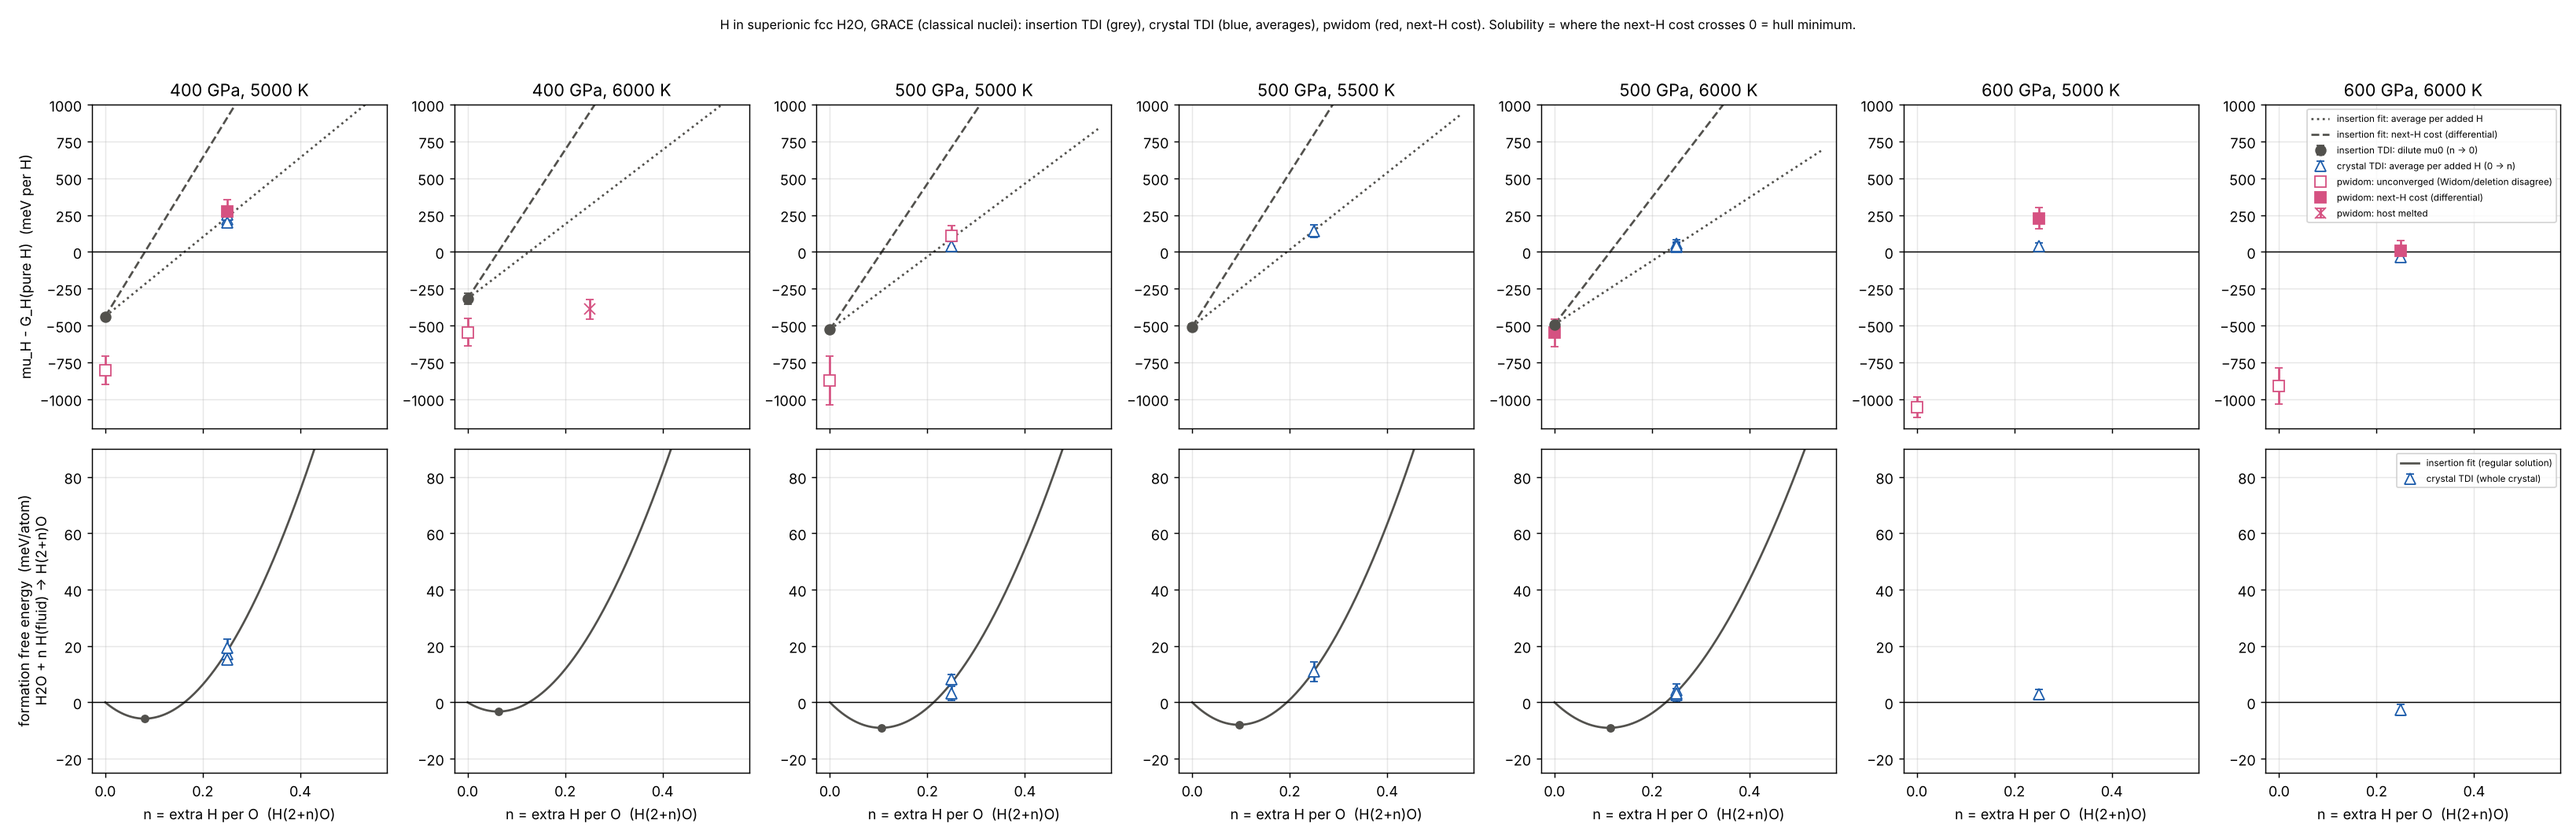
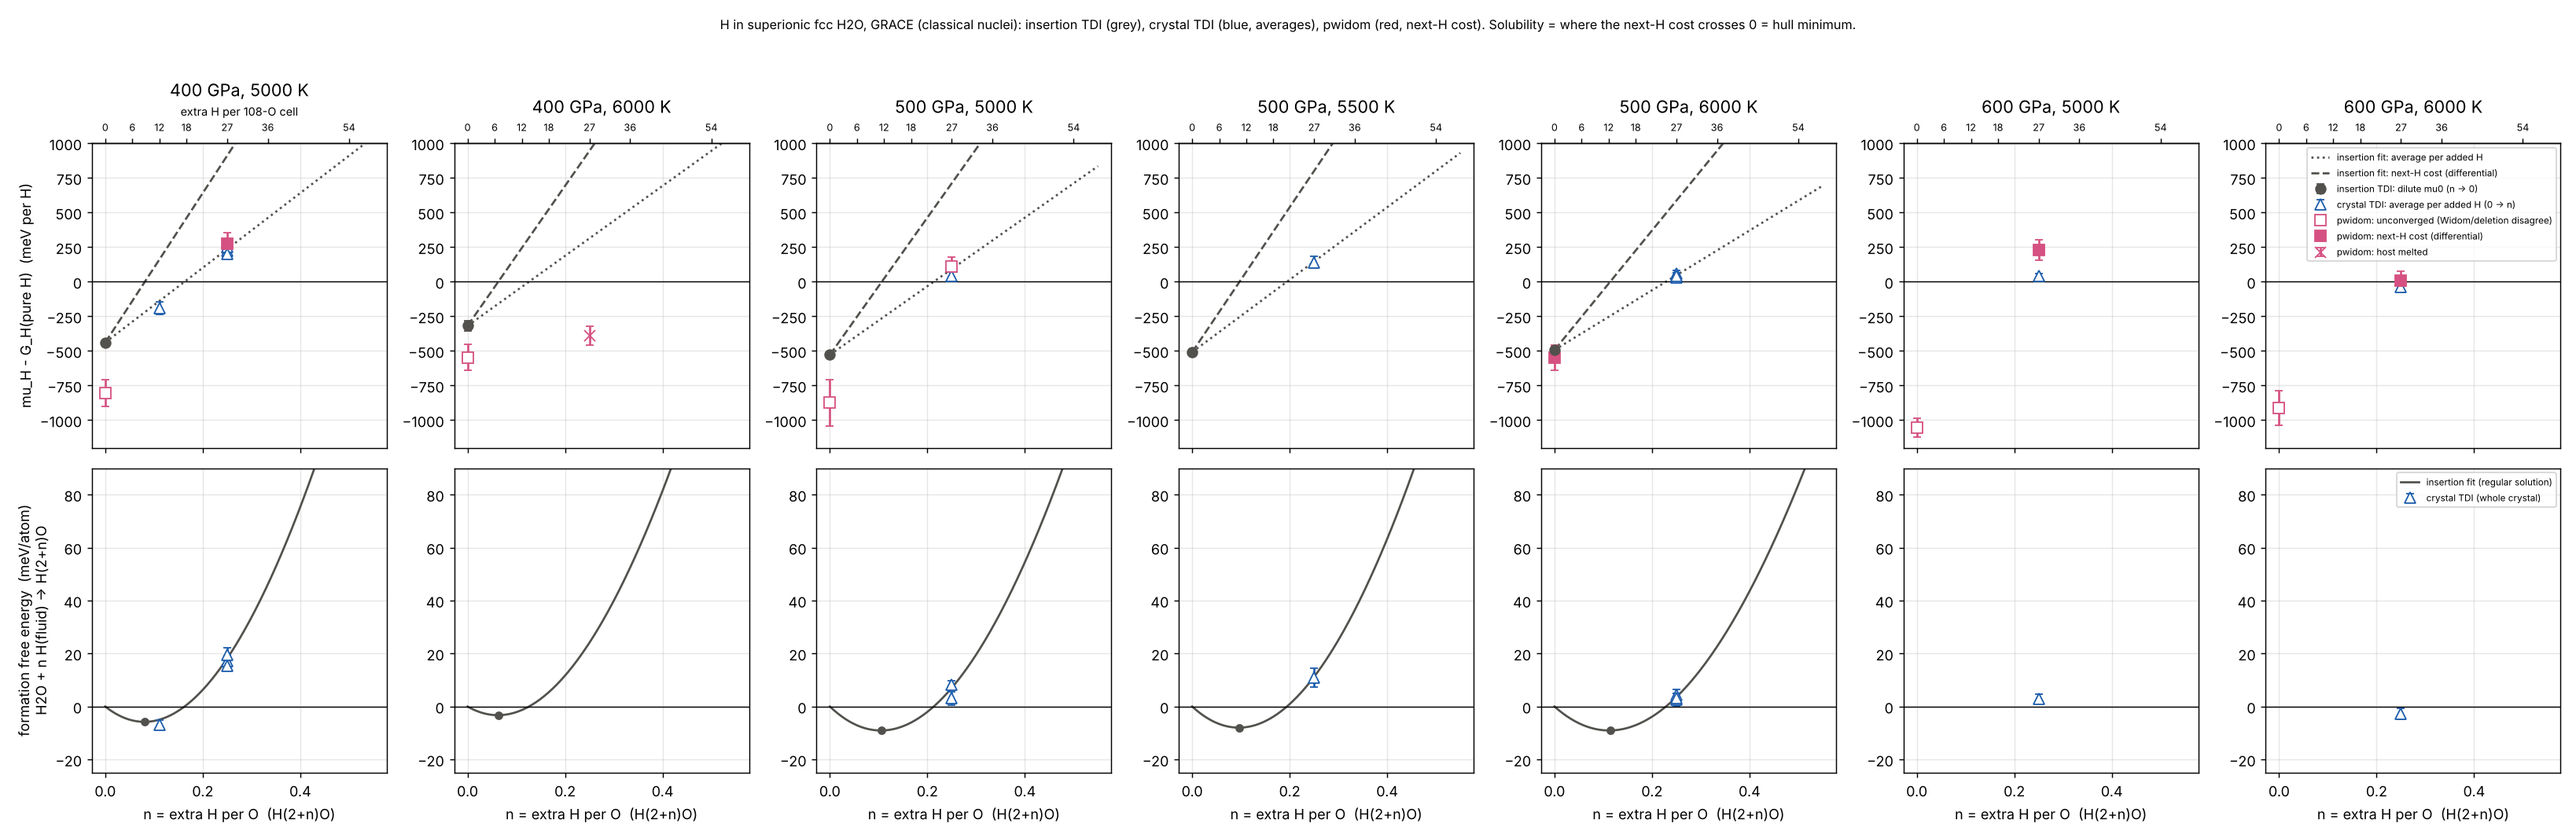
H2.111O crystal TDI at 400 GPa 5000 K (average -191 +- 46 meV per added H = -6.8 +- 1.7 meV/atom) added to the crystal points; mu / hull figure updated
Claude-Session: https://claude.ai/code/session_01RSfmJNpmRzcKj5F71AN4DM

diff --git a/mlp_pipeline/tdi/huang_hull.py b/mlp_pipeline/tdi/huang_hull.py
@@ -17,7 +17,8 @@ import matplotlib.pyplot as plt
 CRYSTAL = [(400, 4000, 0.25, 276.1, 19.2), (400, 5000, 0.25, 223.7, 26.2), (400, 5000, 0.25, 252.0, 38.1), (400, 5000, 0.25, 198.3, 22.5),
            (500, 4000, 0.25, 217.8, 18.3), (500, 4000, 0.5, 507.1, 10.7), (500, 5000, 0.25, 41.1, 32.9), (500, 5000, 0.25, 107.9, 20.0), (500, 5500, 0.25, 141.1, 45.1),
            (500, 6000, 0.25, 56.1, 27.1), (500, 6000, 0.25, 33.0, 30.6), (500, 6000, 0.25, 40.7, 22.1),
-           (600, 4000, 0.25, 80.9, 20.9), (600, 4000, 0.5, 451.1, 15.1), (600, 5000, 0.25, 39.3, 21.7), (600, 6000, 0.25, -36.0, 25.4)]
+           (600, 4000, 0.25, 80.9, 20.9), (600, 4000, 0.5, 451.1, 15.1), (600, 5000, 0.25, 39.3, 21.7), (600, 6000, 0.25, -36.0, 25.4),
+           (400, 5000, 1 / 9, -190.9, 46.2)]   # H2.111O (12 extra H in 108 O), tdi_prep set, 2026-10-29
 INK2, GRID = "#52514d", "#e4e3dd"
 
 
